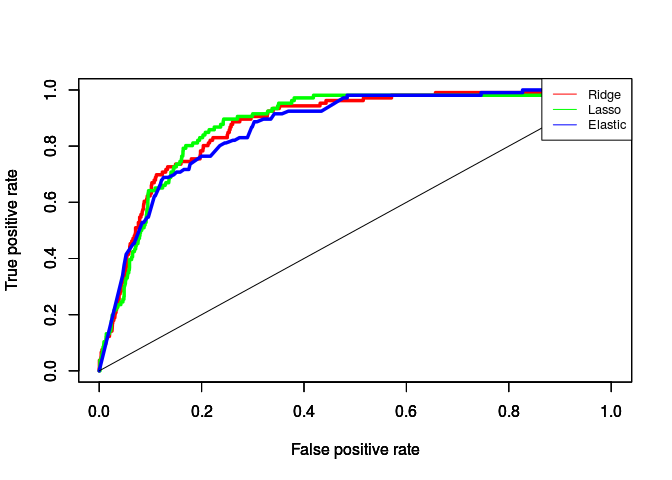
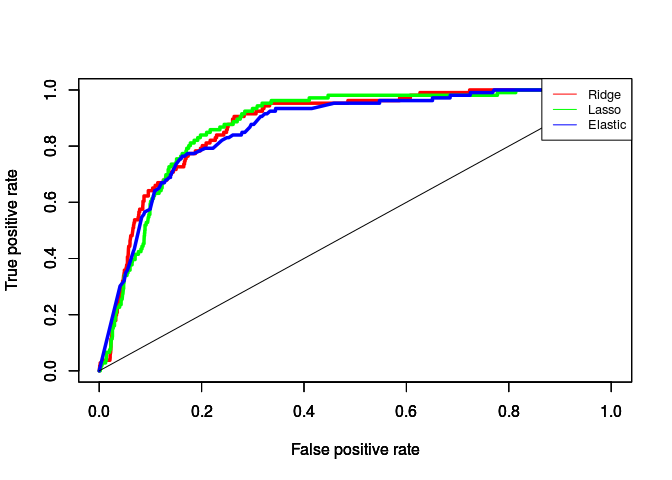
Updated machine learning report

Changed region(s): [[0.125, 0.1562, 0.8125, 0.7812]]

diff --git a/pathway_enrichment_analysis/machine_learning/machine_learning_report.md b/pathway_enrichment_analysis/machine_learning/machine_learning_report.md
@@ -395,13 +395,13 @@ model_list_roc %>%
 ```
 
     ## $lasso
-    ## Area under the curve: 0.8766
+    ## Area under the curve: 0.8772
     ## 
     ## $elastic
-    ## Area under the curve: 0.8643
+    ## Area under the curve: 0.8657
     ## 
     ## $ridge
-    ## Area under the curve: 0.8739
+    ## Area under the curve: 0.8768
 
 These ROC values for predictions. We see that AUC is the biggest for model with ridge regularizer (0.8863), however, they are close.
 
@@ -464,27 +464,27 @@ confusionMatrix(predictions, y_test)
     ## 
     ##           Reference
     ## Prediction   No  Yes
-    ##        No  1508   18
-    ##        Yes  503   88
-    ##                                          
-    ##                Accuracy : 0.7539         
-    ##                  95% CI : (0.735, 0.7721)
-    ##     No Information Rate : 0.9499         
-    ##     P-Value [Acc > NIR] : 1              
-    ##                                          
-    ##                   Kappa : 0.1832         
-    ##  Mcnemar's Test P-Value : <2e-16         
-    ##                                          
-    ##             Sensitivity : 0.7499         
-    ##             Specificity : 0.8302         
-    ##          Pos Pred Value : 0.9882         
-    ##          Neg Pred Value : 0.1489         
-    ##              Prevalence : 0.9499         
-    ##          Detection Rate : 0.7123         
-    ##    Detection Prevalence : 0.7208         
-    ##       Balanced Accuracy : 0.7900         
-    ##                                          
-    ##        'Positive' Class : No             
+    ##        No  1524   17
+    ##        Yes  487   89
+    ##                                           
+    ##                Accuracy : 0.7619          
+    ##                  95% CI : (0.7432, 0.7799)
+    ##     No Information Rate : 0.9499          
+    ##     P-Value [Acc > NIR] : 1               
+    ##                                           
+    ##                   Kappa : 0.1927          
+    ##  Mcnemar's Test P-Value : <2e-16          
+    ##                                           
+    ##             Sensitivity : 0.7578          
+    ##             Specificity : 0.8396          
+    ##          Pos Pred Value : 0.9890          
+    ##          Neg Pred Value : 0.1545          
+    ##              Prevalence : 0.9499          
+    ##          Detection Rate : 0.7199          
+    ##    Detection Prevalence : 0.7279          
+    ##       Balanced Accuracy : 0.7987          
+    ##                                           
+    ##        'Positive' Class : No              
     ## 
 
 However, accuracy for ridge regression is ~75%. Sensitivity and Specificity are 0.7429 and 0.8302 respectively. Note that we have a lot of false positives.
@@ -519,7 +519,7 @@ knn_model_fit %>%
   pROC::auc()
 ```
 
-    ## Area under the curve: 0.8943
+    ## Area under the curve: 0.8748
 
 ``` r
 # make predictions
@@ -582,7 +582,7 @@ svm_Linear %>%
   pROC::auc()
 ```
 
-    ## Area under the curve: 0.7595
+    ## Area under the curve: 0.7646
 
 ``` r
 # make predictions
@@ -642,7 +642,7 @@ svm_Gaussian %>%
   pROC::auc()
 ```
 
-    ## Area under the curve: 0.8926
+    ## Area under the curve: 0.8815
 
 ``` r
 # make predictions
@@ -657,27 +657,27 @@ confusionMatrix(predictions, y_test)
     ## 
     ##           Reference
     ## Prediction   No  Yes
-    ##        No  2011  103
-    ##        Yes    0    3
-    ##                                           
-    ##                Accuracy : 0.9513          
-    ##                  95% CI : (0.9413, 0.9601)
-    ##     No Information Rate : 0.9499          
-    ##     P-Value [Acc > NIR] : 0.4071          
-    ##                                           
-    ##                   Kappa : 0.0524          
-    ##  Mcnemar's Test P-Value : <2e-16          
-    ##                                           
-    ##             Sensitivity : 1.0000          
-    ##             Specificity : 0.0283          
-    ##          Pos Pred Value : 0.9513          
-    ##          Neg Pred Value : 1.0000          
-    ##              Prevalence : 0.9499          
-    ##          Detection Rate : 0.9499          
-    ##    Detection Prevalence : 0.9986          
-    ##       Balanced Accuracy : 0.5142          
-    ##                                           
-    ##        'Positive' Class : No              
+    ##        No  2011  101
+    ##        Yes    0    5
+    ##                                          
+    ##                Accuracy : 0.9523         
+    ##                  95% CI : (0.9423, 0.961)
+    ##     No Information Rate : 0.9499         
+    ##     P-Value [Acc > NIR] : 0.3313         
+    ##                                          
+    ##                   Kappa : 0.086          
+    ##  Mcnemar's Test P-Value : <2e-16         
+    ##                                          
+    ##             Sensitivity : 1.00000        
+    ##             Specificity : 0.04717        
+    ##          Pos Pred Value : 0.95218        
+    ##          Neg Pred Value : 1.00000        
+    ##              Prevalence : 0.94993        
+    ##          Detection Rate : 0.94993        
+    ##    Detection Prevalence : 0.99764        
+    ##       Balanced Accuracy : 0.52358        
+    ##                                          
+    ##        'Positive' Class : No             
     ## 
 
 Again not specific at all.
@@ -704,7 +704,7 @@ rf_weighted_fit %>%
   pROC::auc()
 ```
 
-    ## Area under the curve: 0.9137
+    ## Area under the curve: 0.9109
 
 ``` r
 # make predictions
@@ -719,27 +719,27 @@ confusionMatrix(predictions, y_test)
     ## 
     ##           Reference
     ## Prediction   No  Yes
-    ##        No  1490    9
-    ##        Yes  521   97
-    ##                                          
-    ##                Accuracy : 0.7496         
-    ##                  95% CI : (0.7306, 0.768)
-    ##     No Information Rate : 0.9499         
-    ##     P-Value [Acc > NIR] : 1              
-    ##                                          
-    ##                   Kappa : 0.1995         
-    ##  Mcnemar's Test P-Value : <2e-16         
-    ##                                          
-    ##             Sensitivity : 0.7409         
-    ##             Specificity : 0.9151         
-    ##          Pos Pred Value : 0.9940         
-    ##          Neg Pred Value : 0.1570         
-    ##              Prevalence : 0.9499         
-    ##          Detection Rate : 0.7038         
-    ##    Detection Prevalence : 0.7081         
-    ##       Balanced Accuracy : 0.8280         
-    ##                                          
-    ##        'Positive' Class : No             
+    ##        No  1488    6
+    ##        Yes  523  100
+    ##                                           
+    ##                Accuracy : 0.7501          
+    ##                  95% CI : (0.7311, 0.7684)
+    ##     No Information Rate : 0.9499          
+    ##     P-Value [Acc > NIR] : 1               
+    ##                                           
+    ##                   Kappa : 0.2064          
+    ##  Mcnemar's Test P-Value : <2e-16          
+    ##                                           
+    ##             Sensitivity : 0.7399          
+    ##             Specificity : 0.9434          
+    ##          Pos Pred Value : 0.9960          
+    ##          Neg Pred Value : 0.1605          
+    ##              Prevalence : 0.9499          
+    ##          Detection Rate : 0.7029          
+    ##    Detection Prevalence : 0.7057          
+    ##       Balanced Accuracy : 0.8417          
+    ##                                           
+    ##        'Positive' Class : No              
     ## 
 
 We see now that this model is much more specific, however we still make a lot of false positives (but almost all inducers are predicted).
@@ -765,7 +765,7 @@ gbm_fit %>%
   pROC::auc()
 ```
 
-    ## Area under the curve: 0.8795
+    ## Area under the curve: 0.8853
 
 ``` r
 # make predictions
@@ -780,27 +780,27 @@ confusionMatrix(predictions, y_test)
     ## 
     ##           Reference
     ## Prediction   No  Yes
-    ##        No  1567   16
-    ##        Yes  444   90
-    ##                                           
-    ##                Accuracy : 0.7827          
-    ##                  95% CI : (0.7645, 0.8001)
-    ##     No Information Rate : 0.9499          
-    ##     P-Value [Acc > NIR] : 1               
-    ##                                           
-    ##                   Kappa : 0.2157          
-    ##  Mcnemar's Test P-Value : <2e-16          
-    ##                                           
-    ##             Sensitivity : 0.7792          
-    ##             Specificity : 0.8491          
-    ##          Pos Pred Value : 0.9899          
-    ##          Neg Pred Value : 0.1685          
-    ##              Prevalence : 0.9499          
-    ##          Detection Rate : 0.7402          
-    ##    Detection Prevalence : 0.7478          
-    ##       Balanced Accuracy : 0.8141          
-    ##                                           
-    ##        'Positive' Class : No              
+    ##        No  1559   17
+    ##        Yes  452   89
+    ##                                          
+    ##                Accuracy : 0.7785         
+    ##                  95% CI : (0.7602, 0.796)
+    ##     No Information Rate : 0.9499         
+    ##     P-Value [Acc > NIR] : 1              
+    ##                                          
+    ##                   Kappa : 0.2089         
+    ##  Mcnemar's Test P-Value : <2e-16         
+    ##                                          
+    ##             Sensitivity : 0.7752         
+    ##             Specificity : 0.8396         
+    ##          Pos Pred Value : 0.9892         
+    ##          Neg Pred Value : 0.1645         
+    ##              Prevalence : 0.9499         
+    ##          Detection Rate : 0.7364         
+    ##    Detection Prevalence : 0.7444         
+    ##       Balanced Accuracy : 0.8074         
+    ##                                          
+    ##        'Positive' Class : No             
     ## 
 
 We see that this model is more sensitive, more accurate, but less specific (it makes slightly less false positive predictions than random forest).
@@ -864,7 +864,7 @@ plot(perf_val_rf, col = "chocolate", lwd = 3.5)
 par(new=T)
 plot(perf_val_gbm, col = "brown", lwd = 3.5)
 par(new=T)
-plot(perf_val_knn, col = "coral3", lwd = 3.5)
+plot(perf_val_knn, col = "pink", lwd = 3.5)
 par(new=T)
 plot(perf_val_svm_gaussian, col = "aquamarine", lwd = 3.5)
 par(new=T)
@@ -872,8 +872,8 @@ plot(perf_val_svm_linear, col = "darkblue", lwd = 3.5)
 par(new=T)
 lines(x = c(0,1), y = c(0,1))
 legend(x= "topright", y=0.92, legend=c("Ridge", "Random Forest", "Gradient Boosting", "KNN",
-                                       "SVM_Linear", "SVM_Gaussian"),
-       col=c("red", "chocolate", "brown", "coral3", "aquamarine", "darkblue"), lty=1, cex=0.8)
+                                       "SVM_Gaussian", "SVM_Linear"),
+       col=c("red", "chocolate", "brown", "pink", "aquamarine", "darkblue"), lty=1, cex=0.8)
 ```
 
 ![](machine_learning_report_files/figure-markdown_github/unnamed-chunk-37-1.png)
